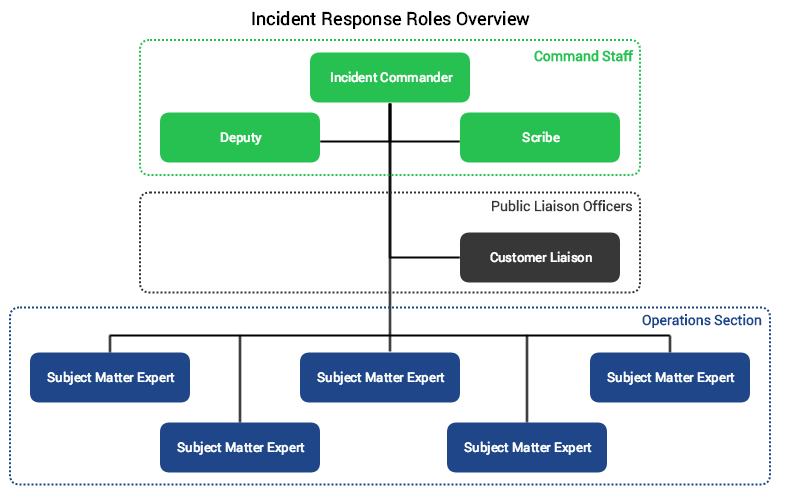
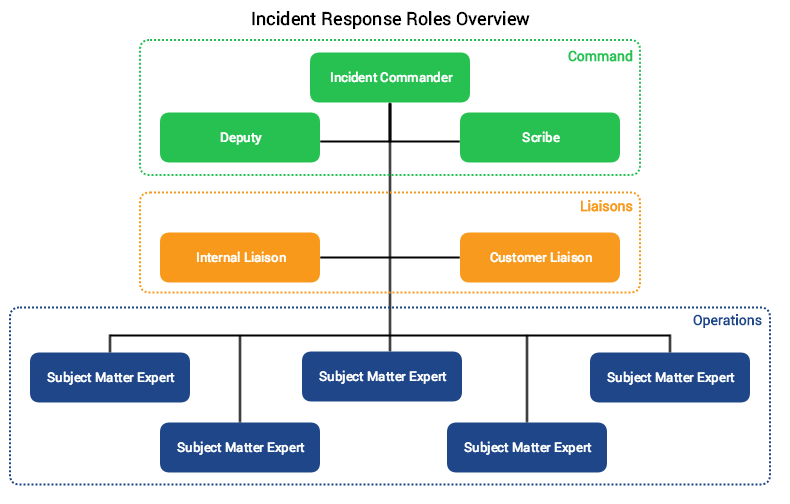
Add our Internal Liaison role and update all docs accordingly. (#44)

diff --git a/docs/training/internal_liaison.md b/docs/training/internal_liaison.md
@@ -1,0 +1,49 @@
+So you want to be an internal liaison? You've come to the right place!
+
+![Internal Liaison](../assets/img/headers/internal_liaison.jpg)
+
+## Purpose
+The purpose of the Internal Liaison is to be the primary individual in charge of notifying internal stakeholders of the current conditions, and informing the Incident Commander of any relevant feedback from stakeholders as the incident progresses. They are also responsible for mobilizing additional responders during an incident if requested by the incident commander.
+
+It's important for the rest of the command staff to be able to focus on the problem at hand, rather than worrying about crafting messages to internal teams, or having to find a user's contact information in order to page them.
+
+Your job as Internal Liaison is to listen to the call, watch the incident Slack room, and follow instructions from the IC. The Incident Commander will instruct you to notify stakeholders of the incident and keep them updated at various points throughout the call. They will also instruct you to page additional responders should it be necessary.
+
+## Prerequisites
+Before you can be an Internal Liaison, it is expected that you meet the following criteria. Don't worry if you don't meet them all yet, you can still continue with training!
+
+* Excellent verbal and written **communication skills**.
+
+## Responsibilities
+Read up on our [Different Roles for Incidents](/before/different_roles.md) to see what is expected from an Internal Liaison, as well as what we expect from the other roles you'll be interacting with.
+
+## Training Process
+There is no formal training process for this role, reading this page should be sufficient for most tasks.
+
+## Incident Call Procedures and Lingo
+The [Steps for Internal Liaison](/during/during_an_incident.md) provide a detailed description of what you should be doing during an incident.
+
+Here are some examples of phrases and patterns you should use during incident calls.
+
+### Keep Track of Responders
+As you listen to the call, you should keep track of the responders to the call as you hear them speak. Make a note on a piece of paper, or use the `!ic responders` to see who they are. The IC may ask you who is on-call for a particular system, and you should know the answer, and be able to page them.
+
+> Do we have a representative from [X] on the call?
+
+> (pause)
+
+> Hearing no response, Internal Liaison, please page the [X] on-call.
+
+You can page them however you see fit, phone call, etc.
+
+### Mobilizing Additional Responders
+As you listen to the call, the IC may ask you to reach out to another internal team and include them in the response. Teams such as Legal, Marketing, Finance, etc may be called upon. You should be ready to page such teams as necessary.
+
+> IC: Internal Liaison, please page the Marketing team and ask them to join the call.
+
+> IL: Understood, paging Marketing team.
+
+### Provide Executive Status Updates
+Provide regular status updates on Slack (roughly every 30mins), giving an executive summary of the current status during SEV-1 incidents. Keep it short and to the point, and use `@here`. Mention the current state, the actions in progress, customer impact, and expected time remaining. It's OK to miss out some of those if the information isn't known.
+
+> @here: We are in SEV-1 due to X. Current actions in progress are to do Y. Expecting 3 mins to complete that action. Once action is complete, system should recover on its own within 5 minutes.

diff --git a/docs/before/different_roles.md b/docs/before/different_roles.md
@@ -6,6 +6,9 @@ Here is a rough outline of our role hierarchy, with each role discussed in more 
 
 During larger complex incidents, the role structure may be adjusted to account for the creation of sub-teams. Read about how we handle [complex incidents](/before/complex_incidents.md) for more information.
 
+!!! tip "Flexible Structure"
+     It is not intended that every role be filled by a different person for every incident. For example, if the incident is small enough in scope, the Deputy might also take on the responsibilities of the Scribe and Internal Liaison for that specific incident. The structure should be flexible and scale based on the size and scope of the incident.
+
 ---
 
 ## Incident Commander (IC)
@@ -53,9 +56,7 @@ The Deputy is expected to:
 
 1. Bring up issues to the Incident Commander that may otherwise not be addressed (keeping an eye on timers that have been started, circling back around to missed items from a roll call, etc).
 1. Be a "hot standby" Incident Commander, should the primary need to either transition to a SME, or otherwise have to step away from the IC role.
-1. Page SME's or other on-call engineers as instructed by the Incident Commander.
 1. Manage the incident call, and be prepared to remove people from the call if instructed by the Incident Commander.
-1. Liaise with stakeholders and provide status updates on Slack as necessary.
 
 ### Who are they?
 Any Incident Commander can act as a deputy. Deputies need to be trained as an Incident Commander as they may be required to take over command.
@@ -132,3 +133,25 @@ Any member of the Support Team can act as a customer liaison.
 
 ### How can I become one?
 Follow our [Customer Liaison training guide](/training/customer_liaison.md), and discuss with the Support Team about becoming our next Customer Liaison.
+
+---
+
+## Internal Liaison
+
+### What is it?
+A person responsible for interacting with internal stakeholders. Whether it's notifying an internal team of the incident, or mobilizing additional responders within the organization.
+
+### Why have one?
+For larger incidents, we may have multiple teams across the organization involved. Having a dedicated liaison to mobilize those teams and bring them up to speed free's up the rest of the responders to handle the incident.
+
+### What are the responsibilities?
+1. Page SME's or other on-call engineers as instructed by the Incident Commander.
+1. Notify other teams within the organization (e.g. Finance, Legal, Marketing), as instructed by the Incident Commander.
+1. Liaise with stakeholders and provide status updates as necessary.
+1. Interact with internal stakeholders to answer their questions, to keep the primary call distraction free.
+
+### Who are they?
+Anyone designated by the Incident Commander during incident response.
+
+### How can I become one?
+Follow our [Internal Liaison training](/training/internal_liaison.md).

diff --git a/docs/during/during_an_incident.md b/docs/during/during_an_incident.md
@@ -71,10 +71,6 @@ You are there to support the IC in whatever they need.
 
 1. Monitor the status of the incident, and notify the IC if/when the incident escalates in severity level.
 
-1. Be prepared to page other people as directed by the Incident Commander.
-
-1. Provide regular status updates in Slack (roughly every 30mins) to the executive team, giving an executive summary of the current status. Keep it short and to the point, and use @here.
-
 1. Follow instructions from the Incident Commander.
 
 1. Once the call is over, you can start to follow the steps from [After an Incident](/after/after_an_incident.md).
@@ -113,6 +109,19 @@ You are there to support the incident commander in identifying the cause of the 
 Be on stand-by to post public facing messages regarding the incident.
 
 1. You will typically be required to update the status page and to send Tweets from our various accounts at certain times during the call.
+
+1. Follow instructions from the Incident Commander.
+
+1. Once the call is over, you can start to follow the steps from [After an Incident](/after/after_an_incident.md).
+
+## Steps for Internal Liaison
+You are there to provide updates to internal stakeholders, and to mobilize additional internal responders as necessary.
+
+1. Be prepared to page other people as directed by the Incident Commander.
+
+1. Notify internal stakeholders as necessary, adding subscribers to the PagerDuty incident. We have pre-defined teams called "SEV-1 Stakeholders" and "SEV-2 Stakeholders" which can be used.
+
+1. Provide regular status updates in Slack (roughly every 30mins) to the executive team, giving an executive summary of the current status. Keep it short and to the point, and use `@here`.
 
 1. Follow instructions from the Incident Commander.
 

diff --git a/docs/training/deputy.md b/docs/training/deputy.md
@@ -31,22 +31,6 @@ The [Steps for Deputy](/during/during_an_incident.md) provide a detailed descrip
 
 Here are some examples of phrases and patterns you should use during incident calls.
 
-### Keep Track of Responders
-As you listen to the call, you should keep track of the responders to the call as you hear them speak. Make a note on a piece of paper, or use the `!ic responders` to see who they are. The IC may ask you who is on-call for a particular system, and you should know the answer, and be able to page them.
-
-> Do we have a representative from [X] on the call?
-
-> (pause)
-
-> Deputy, can you go ahead and page the [X] on-call please.
-
-You can page them however you see fit, phone call, etc.
-
-### Provide Executive Status Updates
-Provide regular status updates on Slack (roughly every 30mins), giving an executive summary of the current status during SEV-1 incidents. Keep it short and to the point, and use @here. Mention the current state, the actions in progress, customer impact, and expected time remaining. It's OK to miss out some of those if the information isn't known.
-
-> @here: We are in SEV-1 due to X. Current actions in progress are to do Y. Expecting 3 mins to complete that action. Once action is complete, system should recover on its own within 5 minutes.
-
 ### Alert IC to Timers
 You are expected to keep track of how long the incident has been running for, and provide callouts to the IC every 10 minutes so they can take actions such as increasing the severity, or asking Support to Tweet out. This is as simple as telling the IC on the call,
 

diff --git a/docs/training/incident_commander.md b/docs/training/incident_commander.md
@@ -125,7 +125,7 @@ During a call, you will want to know who is available from the various teams in 
 > Deputy, can you go ahead and page the [X] on-call please.
 
 ### Assigning Tasks
-When you need to give out an assignment or task, give it to a person directly, never say "can someone do..." as this leads to the [bystander effect](https://en.wikipedia.org/wiki/Bystander_effect). Instead, all actions should be assigned to a specific person, and time-boxed with a specific number of minutes.
+When you need to give out an assignment or task, give it to a person directly, never say "can someone do..." as this leads to the [bystander effect](https://en.wikipedia.org/wiki/Bystander_effect). Instead, all actions should be assigned to a specific person, and time-boxed with a specific number of minutes. You should also make sure to ask the individual to confirm they've acknowledged and understood the instructions.
 
 > IC: Bob, please investigate the high latency on web app boxes. I'll come back to you for an answer in 3 minutes.
 

diff --git a/docs/training/overview.md b/docs/training/overview.md
@@ -8,6 +8,7 @@ Our training guides are split up by role, however you are encouraged to read thr
 * [Scribe Training](/training/scribe.md) - This is intended for individuals who will be acting as a scribe during an incident.
 * [SME / Resolver Training](/training/subject_matter_expert.md) - This is relevant to everyone at PagerDuty who are on-call for any team.
 * [Customer Liaison Training](/training/customer_liaison.md) - This is for individuals who will be publicly representing us and interacting with customers.
+* [Internal Liaison Training](/training/internal_liaison.md) - This is relevant for anyone who might be called upon to work with teams internal during an incident.
 
 ## National Incident Management System (NIMS)
 Our incident response process is loosely based on the [US National Incident Management System (NIMS)](https://www.fema.gov/national-incident-management-system), which is described as,

diff --git a/docs/index.md b/docs/index.md
@@ -44,6 +44,7 @@ So, you want to learn about incident response? You've come to the right place.
 * [Scribe Training](training/scribe.md) - _A guide to scribing._
 * [Subject Matter Expert Training](training/subject_matter_expert.md) - _A guide on responsibilities and behavior for all participants in a major incident._
 * [Customer Liaison Training](training/customer_liaison.md) - _A guide on how to act as our public representative during an incident._
+* [Internal Liaison Training](training/internal_liaison.md) - _A guide on how to liaise with internal teams during an incident._
 * [Glossary of Incident Response Terms](training/glossary.md) - _A collection of terms that you may hear being used, along with their definition._
 
 ## Additional Resources

diff --git a/docs/after/after_an_incident.md b/docs/after/after_an_incident.md
@@ -35,6 +35,8 @@ There are no additional steps after an incident is resolved. However the IC may 
 
 1. Follow the post-mortem progress, and update our status page with the external message once it is available.
 
+### Steps for Internal Liaison
+There are no additional steps after an incident is resolved. However the IC may ask for your help with answering questions from internal stakeholders.
 
 ## Reviewing the Incident
 It's important that we review the incident in detail to see exactly what went wrong, why it went wrong, and what we can do to make sure it doesn't happen again. These take many names; after-action reviews, incident review, followup review, etc. We use the term post-mortem.
